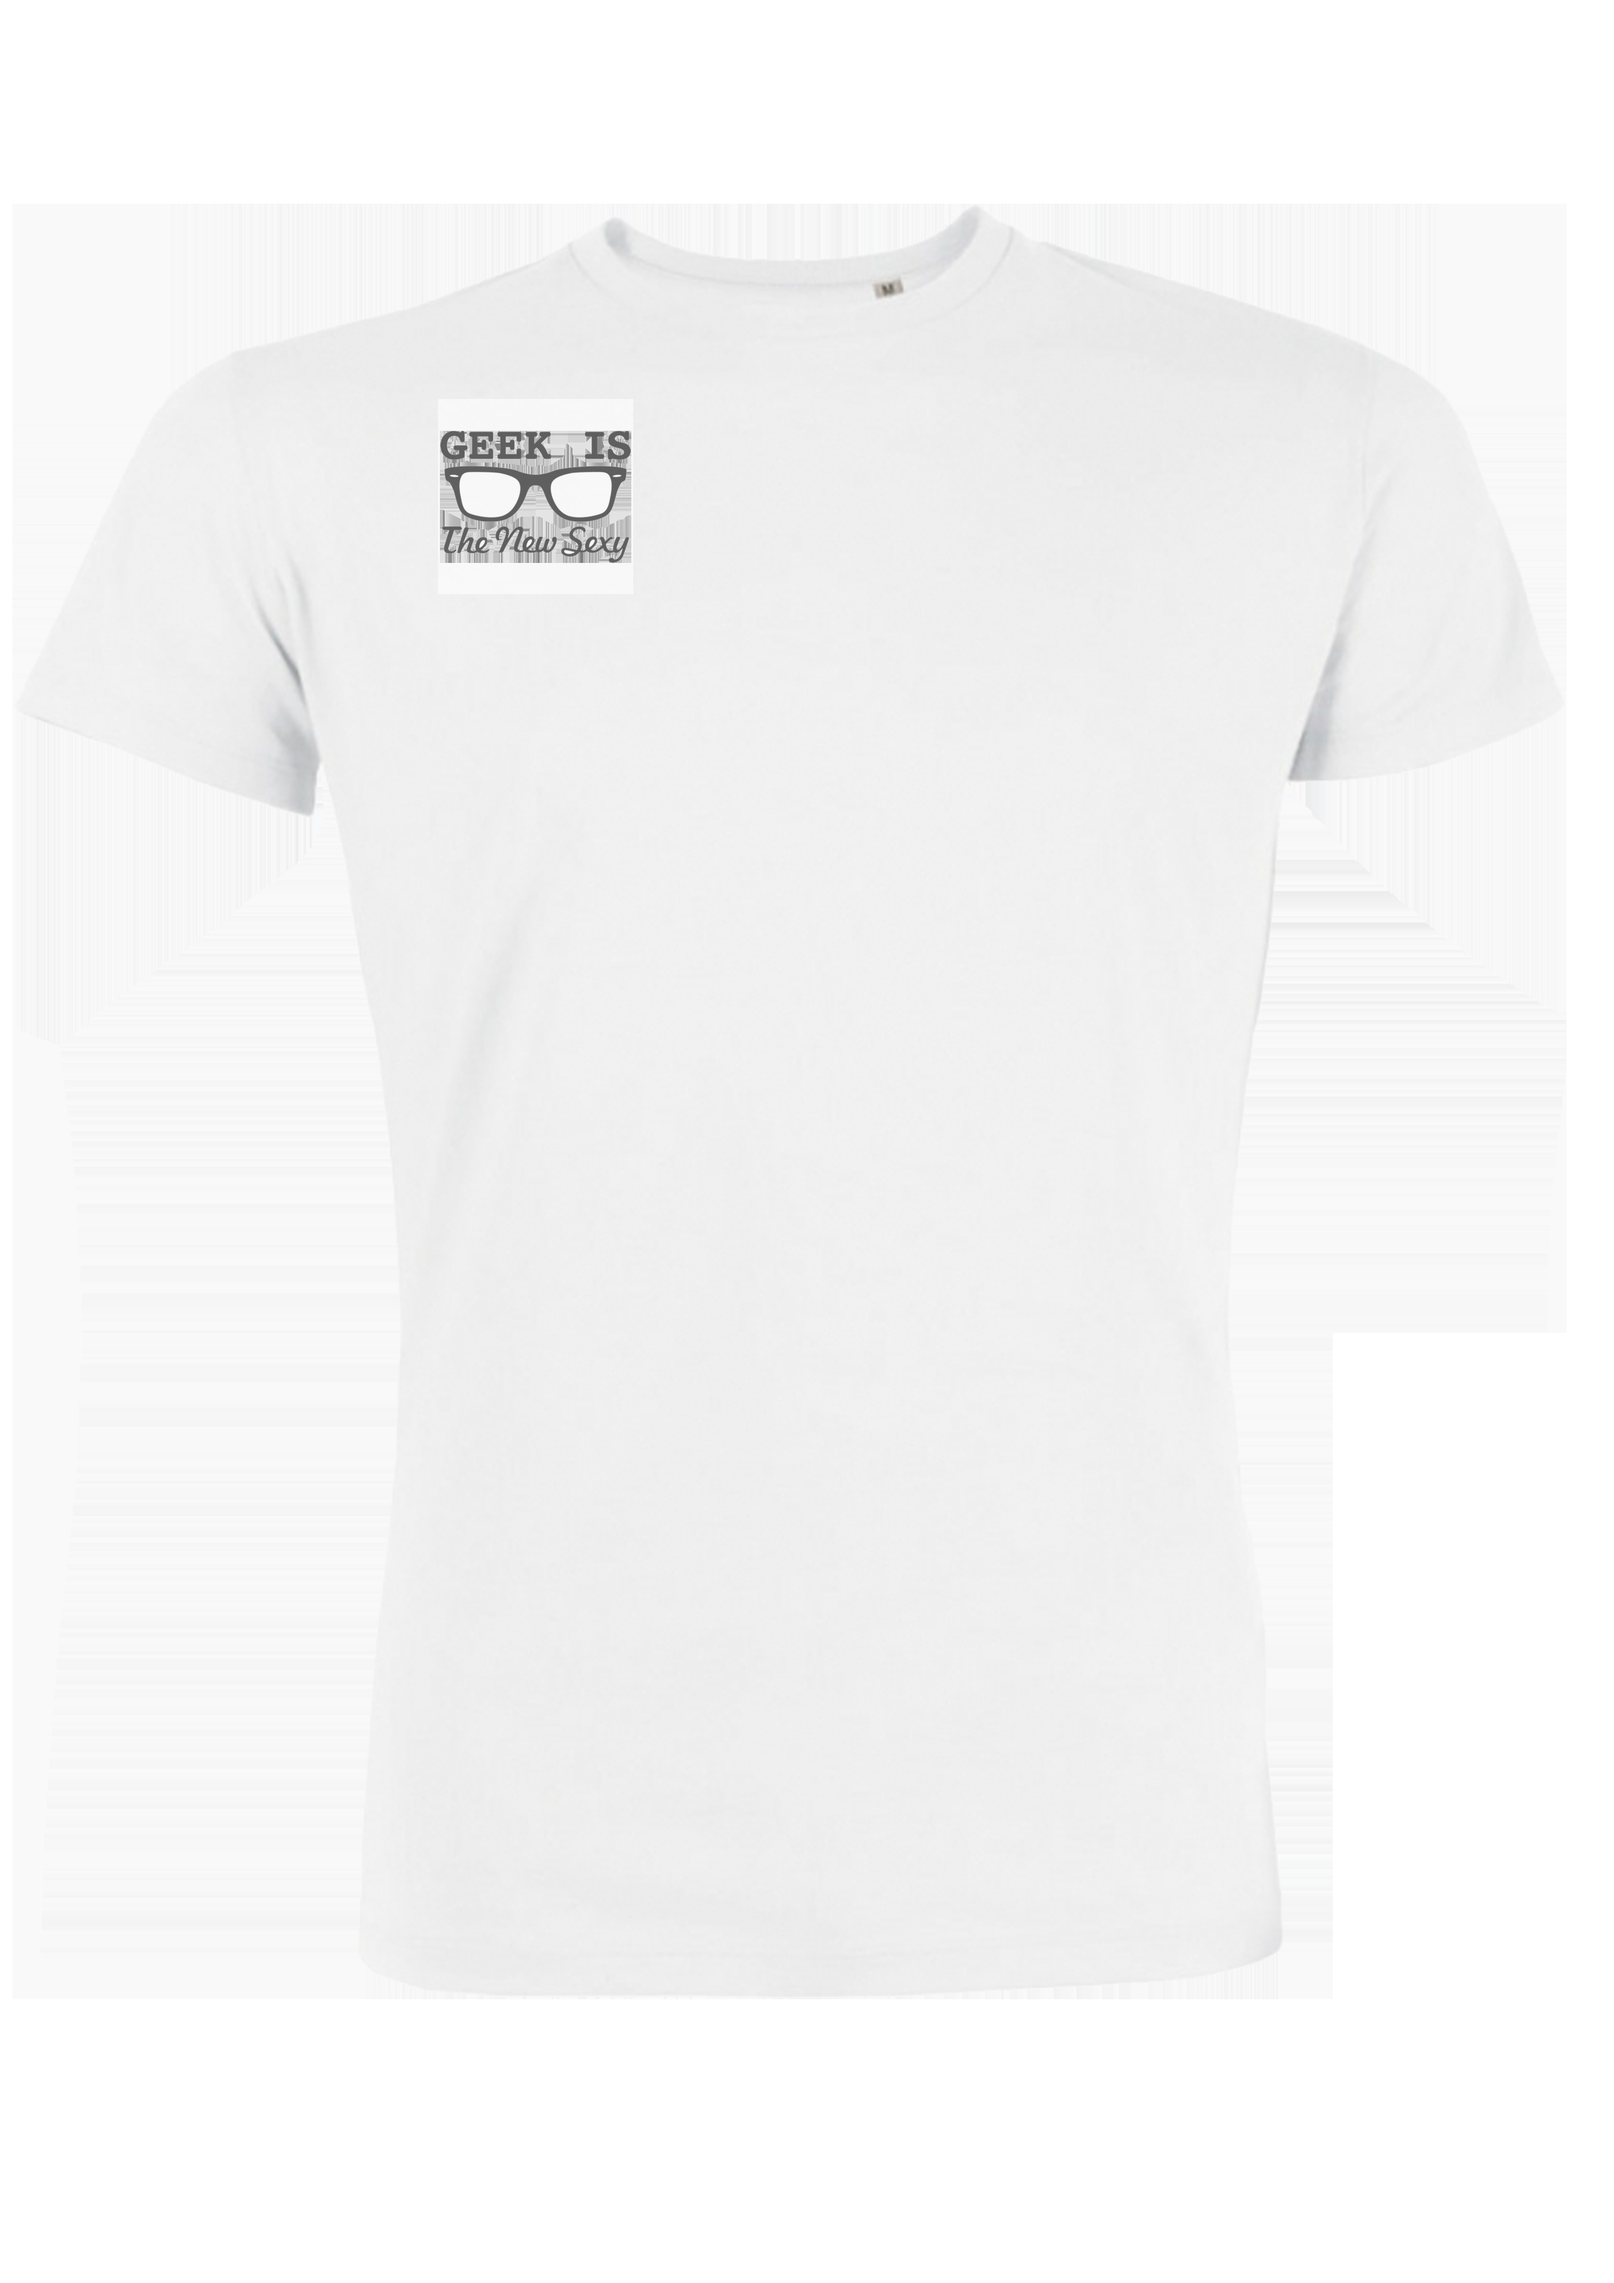
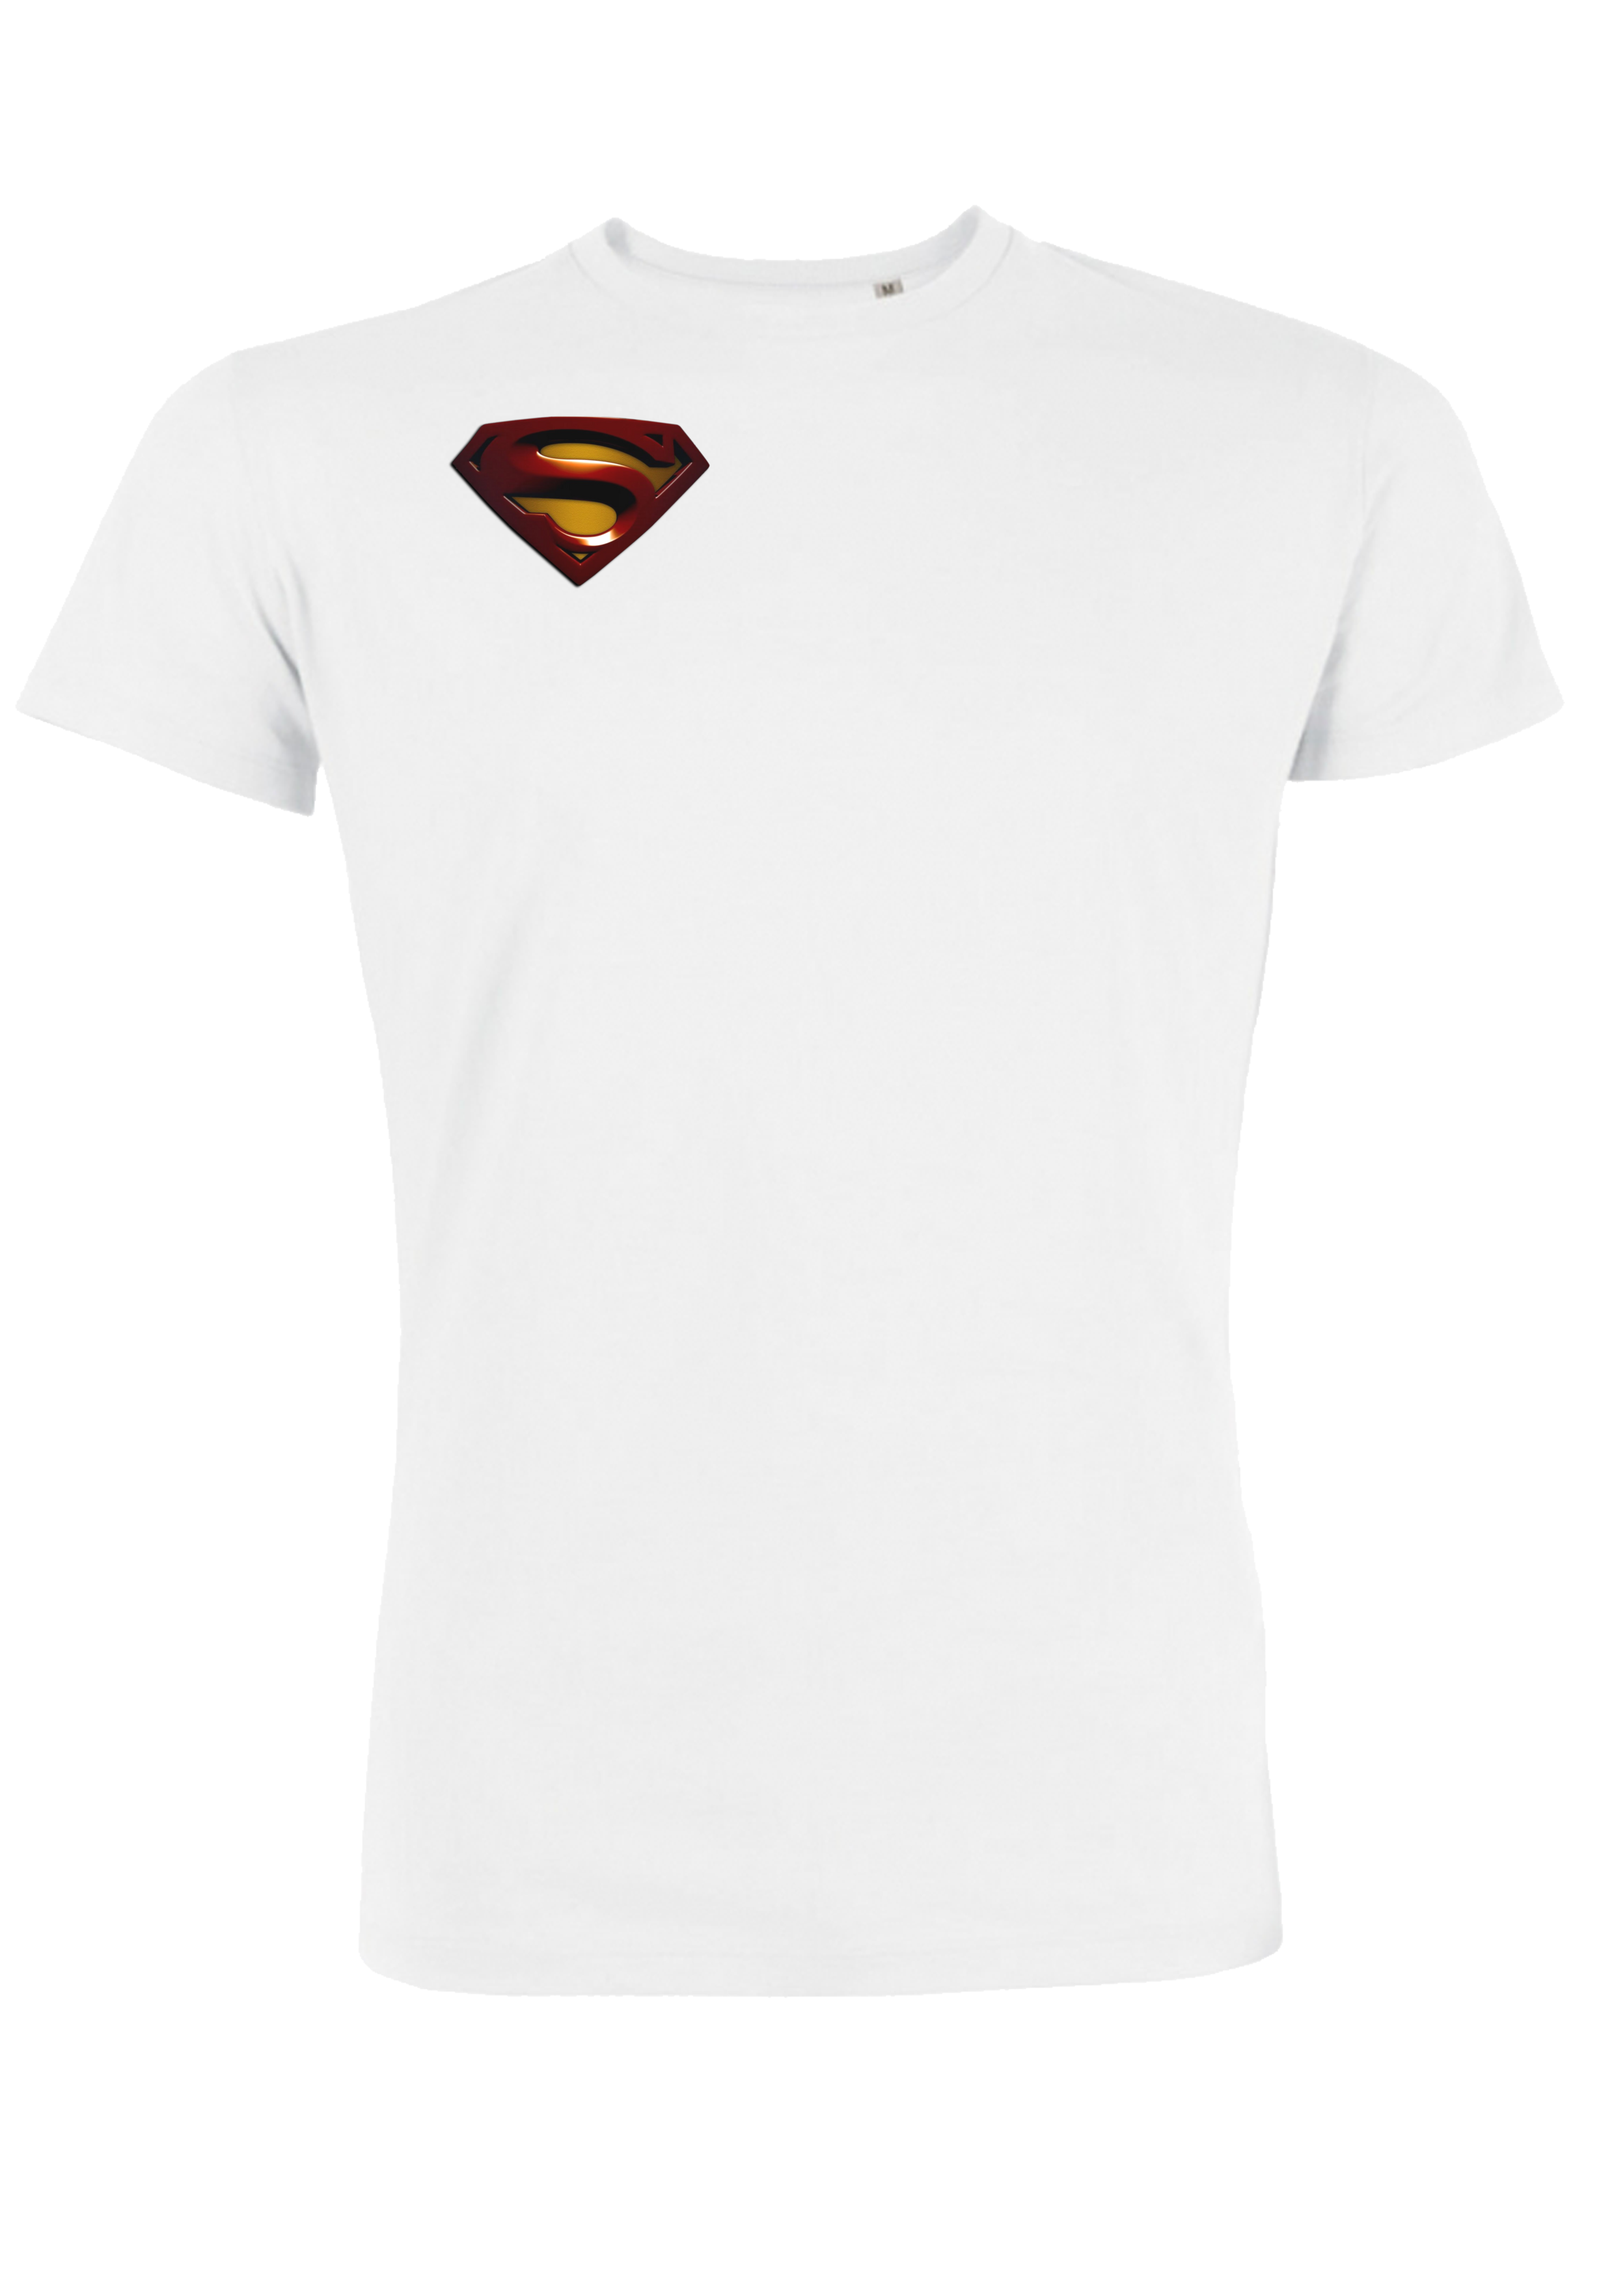
fixes bad alpha mixing on final image

Changed region(s): [[0.2484, 0.1554, 0.4347, 0.2796]]

diff --git a/php.php b/php.php
@@ -2,7 +2,7 @@
 	
 	/* ------- reglages des parametre ------ */
 
-	$transparency = 60;
+	$transparency = 100;
 	// header ("Content-type: image/jpeg"); // L'image que l'on va créer est un jpeg
 
 
@@ -10,7 +10,7 @@
 	
 
 	$uploadScFile = "images/motif/";
-	$sourceName ="ecusson.png"; 
+	$sourceName ="ecusson2.png"; 
 	$pictureSourceUrl = $uploadScFile  . $sourceName;
 	// echo $pictureSourceUrl;
 
@@ -18,6 +18,21 @@
 	$destinationName ="hommeTshirt.png"; 
 	$pictureDestinationUrl = $uploadDsFile  . $destinationName;
 	// echo $pictureDestinationUrl;
+
+
+	 function imagecopymerge_alpha($dst_im, $src_im, $dst_x, $dst_y, $src_x, $src_y, $src_w, $src_h, $pct){
+        // creating a cut resource
+        $cut = imagecreatetruecolor($src_w, $src_h);
+
+        // copying relevant section from background to the cut resource
+        imagecopy($cut, $dst_im, 0, 0, $dst_x, $dst_y, $src_w, $src_h);
+       
+        // copying relevant section from watermark to the cut resource
+        imagecopy($cut, $src_im, 0, 0, $src_x, $src_y, $src_w, $src_h);
+       
+        // insert cut resource to destination image
+        imagecopymerge($dst_im, $cut, $dst_x, $dst_y, 0, 0, $src_w, $src_h, $pct);
+    } 
 
 	$source = imagecreatefrompng($pictureSourceUrl); // Le logo est la source
 
@@ -48,7 +63,9 @@
 
 	// On met le logo (source) dans l'image de destination (la photo)
 
-	imagecopymerge($destination, $source, $destination_x, $destination_y, 0, 0, 	$largeur_source, $hauteur_source, $transparency);
+	imagesavealpha($source, true);
+	imagesavealpha($destination, true);
+	imagecopymerge_alpha($destination, $source, $destination_x, $destination_y, 0, 0, 	$largeur_source, $hauteur_source, $transparency);
 
 
 	// On affiche l'image de destination qui a été fusionnée avec le logo
@@ -68,6 +85,8 @@
 	
 	/* ---- save the new file ----- */
 
+	imagesavealpha($destination, true);
+	imagesavealpha($source, true);
     imagepng($destination, $newFile);
 
     // echo $newFile;
